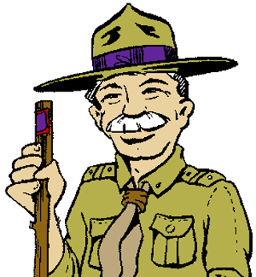
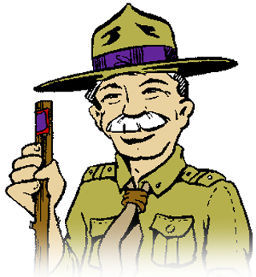
Retoque fotográfico
Se le dio un difuminado abajo para que se sume mejor al conjunto

Changed region(s): [[0.125, 0.8087, 1.0, 1.0]]

diff --git a/desafio1.html b/desafio1.html
@@ -28,7 +28,7 @@
         <p><img src="image/bp0.jpg"><!-- Imagen para decorar el inicio del juego -->
         <br>
         <span class="comenzar">¿Listo para comenzar?</span><br><!-- Frase debajo de la imagen -->
-        <small>Debes obtener al menos 100 puntos para ganar<br><!-- Inf. sobre cantidad de puntos necesarios para ganar -->
+        <small>Debes obtener al menos <b>100 puntos</b> para ganar<br><!-- Inf. sobre cantidad de puntos necesarios para ganar -->
         tienes 15 segundos para responder cada pregunta</small></p><!-- Inf. sobre tiempo para responder -->
         <button class="start">Comenzar</button><!-- Botón para comenzar -->
       </div>

diff --git a/quizzer.js b/quizzer.js
@@ -106,6 +106,14 @@ var questions = [
 		0
 	],
 	[
+		"<img src='image/img09.jpg'><br>¿Qué pañoleta es esta?",
+		"Comisionado Regional",
+		"Jamboree Nacional",
+		"Delegación Nacional",
+		"Regional de Falcón",
+		2
+	],
+	[
 		"¿Cuál fué el primer país de América en tener Asociación Scout?",
 		"Estados Unidos",
 		"Argentina",
@@ -128,6 +136,14 @@ var questions = [
 		"2015",
 		"Aún no se celebra",
 		1
+	],
+	[
+		"<img src='image/img10.jpg'><br>¿Qué constelación se muestra?",
+		"las Pléyades",
+		"Pikachú",
+		"La Osa Mayor",
+		"Orión",
+		3
 	],
 ];
 
